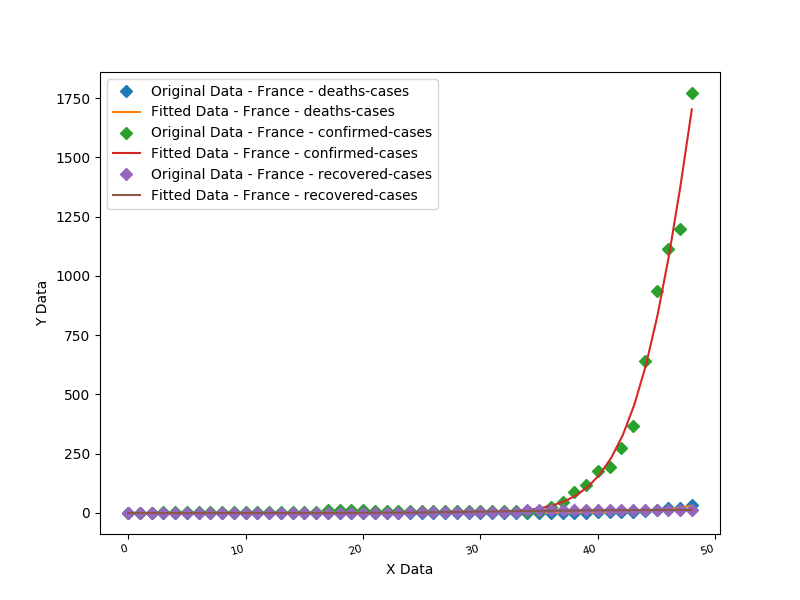
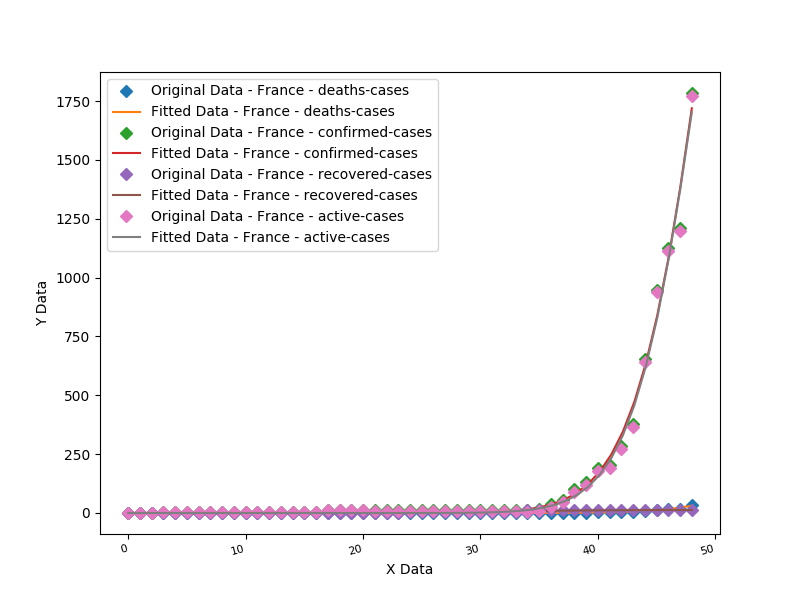
fixed bug in active cases

diff --git a/csse_covid_19_data/csse_covid_19_time_series/dati_mondiali.py b/csse_covid_19_data/csse_covid_19_time_series/dati_mondiali.py
@@ -66,8 +66,11 @@ deaths_df_reshaped = deaths_df.melt(id_vars=['Province/State', 'Country/Region',
 recovered_df_reshaped = recovered_df.melt(id_vars=['Province/State', 'Country/Region', 'Lat', 'Long'],var_name="Date", value_name='cases')
 # recovered_df_reshaped.set_index('Date', inplace=True)
 
-active_df_reshaped = confirmed_df_reshaped
-active_df_reshaped['cases'] = confirmed_df_reshaped['cases'] - recovered_df_reshaped['cases']
+active_df_reshaped = confirmed_df_reshaped.copy()
+active_cases = confirmed_df_reshaped['cases'] - recovered_df_reshaped['cases']
+active_df_reshaped['cases'] = active_cases
+
+
 
 def exp_func(x, a, b ):
     return a*np.exp(b*x)
@@ -214,7 +217,9 @@ for country in countrylist:
     ModelAndScatterPlot(country,deaths_df_reshaped,'deaths-cases',graphWidth, graphHeight,logscale=True)
     ModelAndScatterPlot(country,confirmed_df_reshaped,'confirmed-cases',graphWidth, graphHeight,logscale=True)
     ModelAndScatterPlot(country,recovered_df_reshaped,'recovered-cases',graphWidth, graphHeight,logscale=True)
+    ModelAndScatterPlot(country,active_df_reshaped,'active-cases',graphWidth, graphHeight,logscale=True)
     logscale=True
+    # logscale=False
     if logscale:
         plt.savefig('./Figures/'+country + '_fitted_log.png', dpi=100)
     else:
